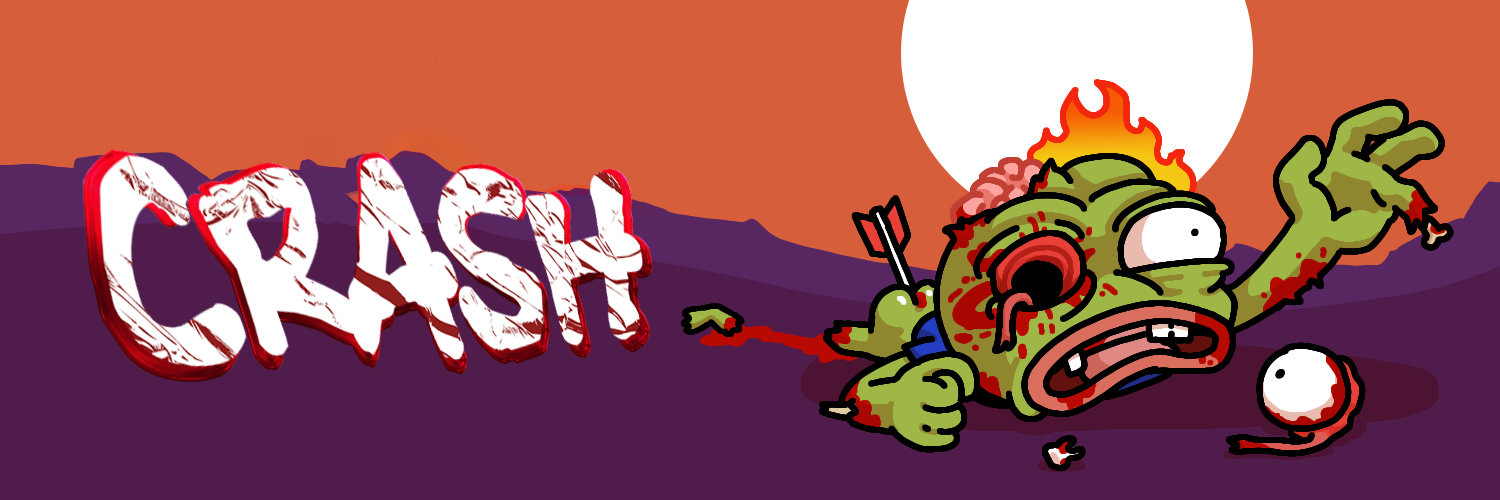
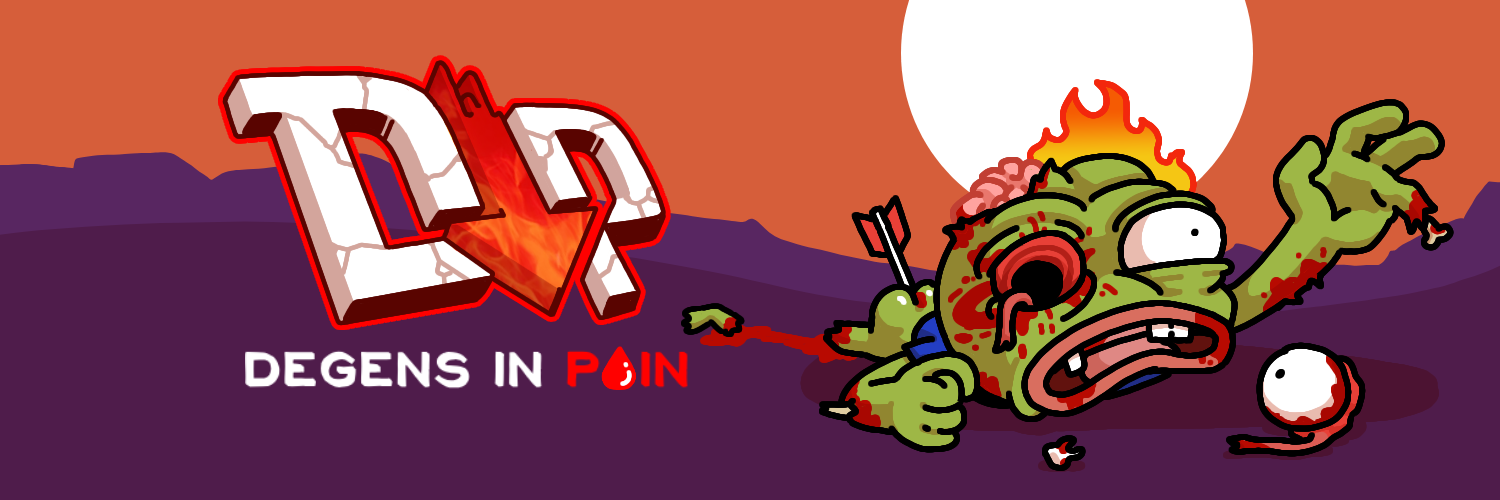
text

Changed region(s): [[0.0307, 0.12, 0.46, 0.78]]

diff --git a/src/constants/config.ts b/src/constants/config.ts
@@ -134,10 +134,10 @@ export interface TConfig {
 
 export const themeConfig: TConfig = {
     meta: {
-        title: 'Crash',
+        title: 'DIP',
         subtitle: 'Degens In Pain',
         description: 'Degens In Pain',
-        name: 'Crash',
+        name: 'DIP',
         url: '/',
         favicon: '/logo.png',
         logo: {
